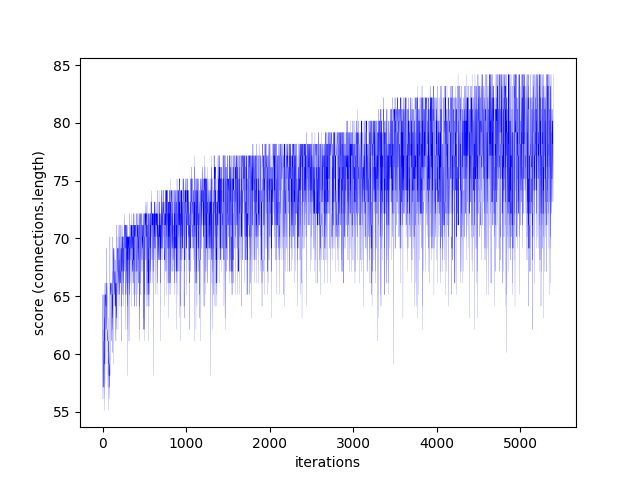
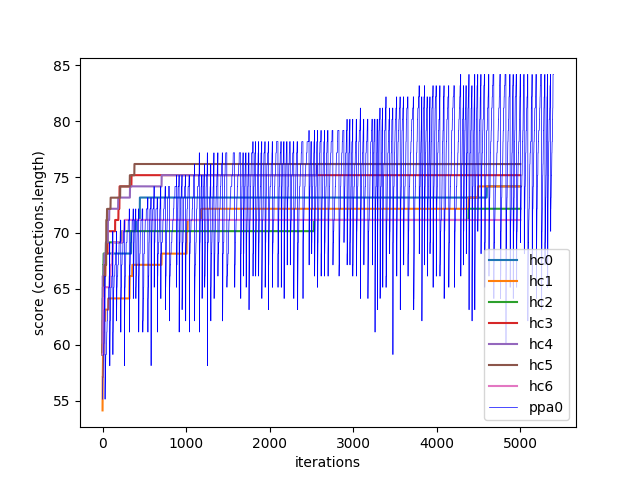
ppa+hc plot

diff --git a/circuit_map_git/plot_code/algo_plots.py b/circuit_map_git/plot_code/algo_plots.py
@@ -6,10 +6,10 @@ class algo_plots:
     def __init__(self):
         self.hc_dir = 'HC/'
         self.ppa_dir = 'PPA/'
-        # self.hc_dct = self.hc_data()
+        self.hc_dct = self.hc_data()
         self.ppa_dct = self.ppa_data()
         # self.hc_plot()
-        self.ppa_plot()
+        self.hc_plot()
 
     def hc_data(self):
 
@@ -23,7 +23,7 @@ class algo_plots:
             high_connect, high_len = 0, 0
             with open(self.hc_dir+file) as csvfile:
                 csv_rd = csv.reader(csvfile)
-                print(file)
+                # print(file)
                 h_val = 0.0000
                 for idx,row in enumerate(csv_rd):
                     cur_con, cur_len = int(row[0]), int(row[1][0:4])
@@ -33,17 +33,22 @@ class algo_plots:
                     it_lst.append(idx)
                     score_lst.append(float(h_val))
                 result_dict[i]['iter'], result_dict[i]['score'] = it_lst, score_lst
-        print(result_dict)
+        # print(result_dict)
         return result_dict
 
     def hc_plot(self):
 
         for key,item in self.hc_dct.items():
-            print('jeej')
-            plt.plot(item['iter'],item['score'])
+            print(key)
+            plt.plot(item['iter'],item['score'],label='hc{}'.format(key))
             plt.ylabel('score (connections.length)')
             plt.xlabel('iterations')
-        plt.show()
+        for key,item in self.ppa_dct.items():
+            plt.plot(item['sort'],'b-', linewidth=0.5,label='ppa{}'.format(key))
+            plt.ylabel('score (connections.length)')
+            plt.xlabel('iterations')
+        plt.legend()
+        plt.savefig('test.png')
 
     def ppa_data(self):
 
@@ -55,24 +60,32 @@ class algo_plots:
             ppa_dct[i] = {}
             with open(self.ppa_dir+file) as csvfile:
                 csv_rd = csv.reader(csvfile)
-                score_lst, iter_lst = [],[]
+                score_lst, iter_lst, sort_lst = [], [], []
                 gen_count, gen_lst = 1, []
+                temp_lst = []
                 for row in csv_rd:
                     if row[0].startswith('##'):
                         gen_count += 1
+                        temp_lst.sort()
+                        # print(temp_lst)
+                        sort_lst += temp_lst
+                        print(sort_lst)
+                        temp_lst = []
                     else:
                         cur_score = float(row[0]+'.'+row[1])
                         score_lst.append(cur_score)
                         gen_lst.append(gen_count)
-
+                        temp_lst.append(cur_score)
+                # print(sort_lst)
                 ppa_dct[i]['score'] = score_lst
                 ppa_dct[i]['gen'] = gen_lst
+                ppa_dct[i]['sort'] = sort_lst
         return ppa_dct
 
     def ppa_plot(self):
 
         for key,item in self.ppa_dct.items():
-            print('jeej')
+            # print('jeej')
             plt.plot(item['score'],'b-',linewidth=0.1)
             plt.ylabel('score (connections.length)')
             plt.xlabel('iterations')
